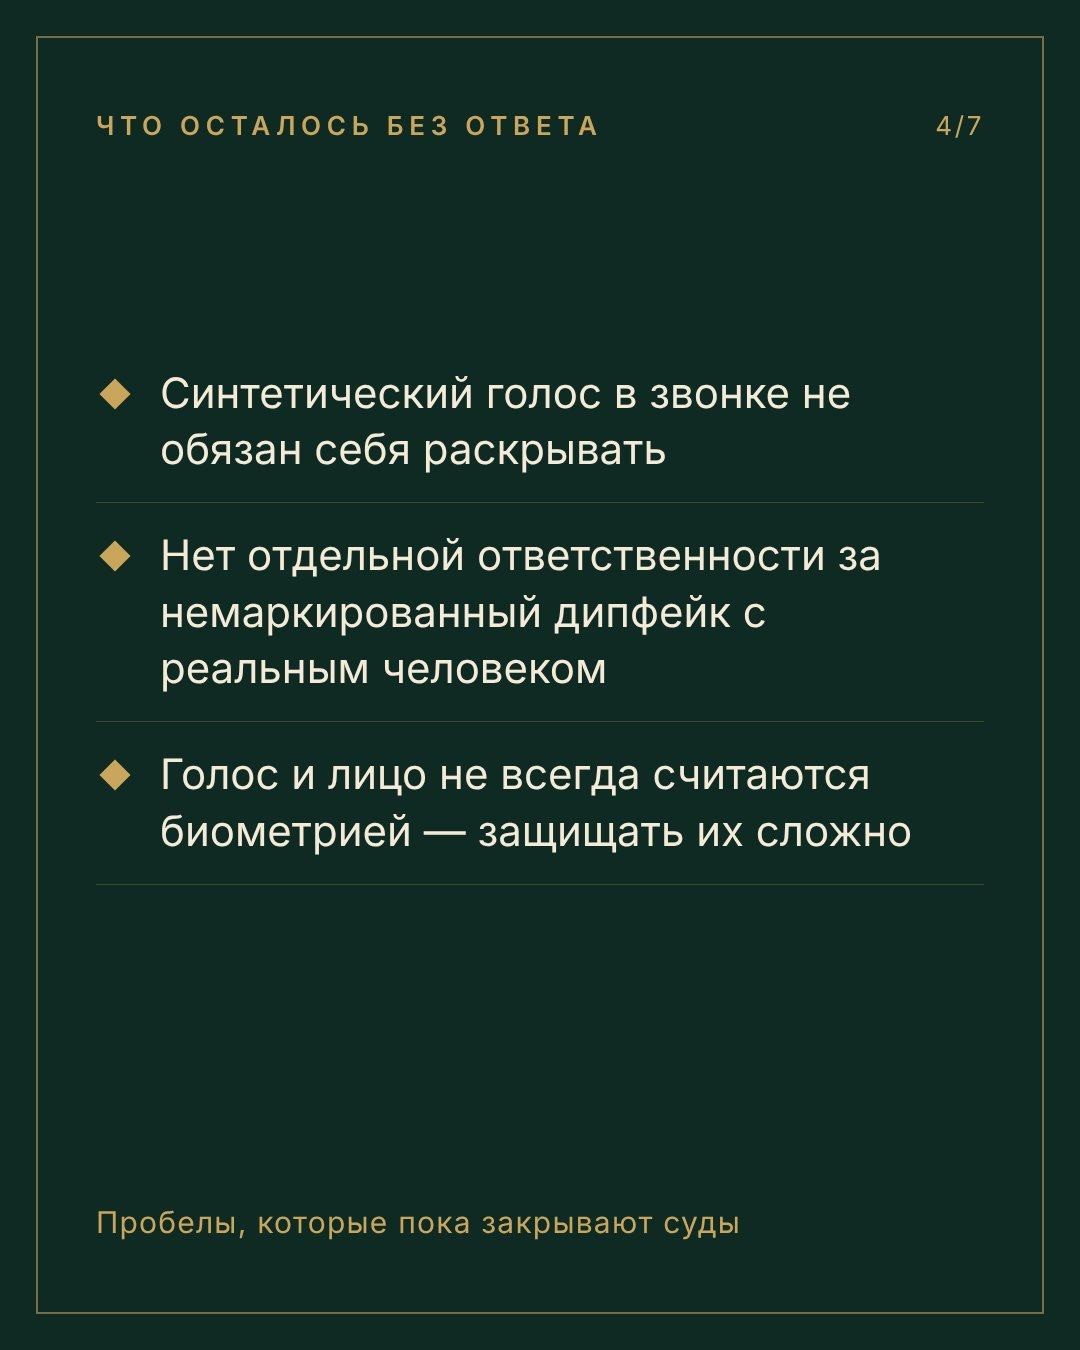
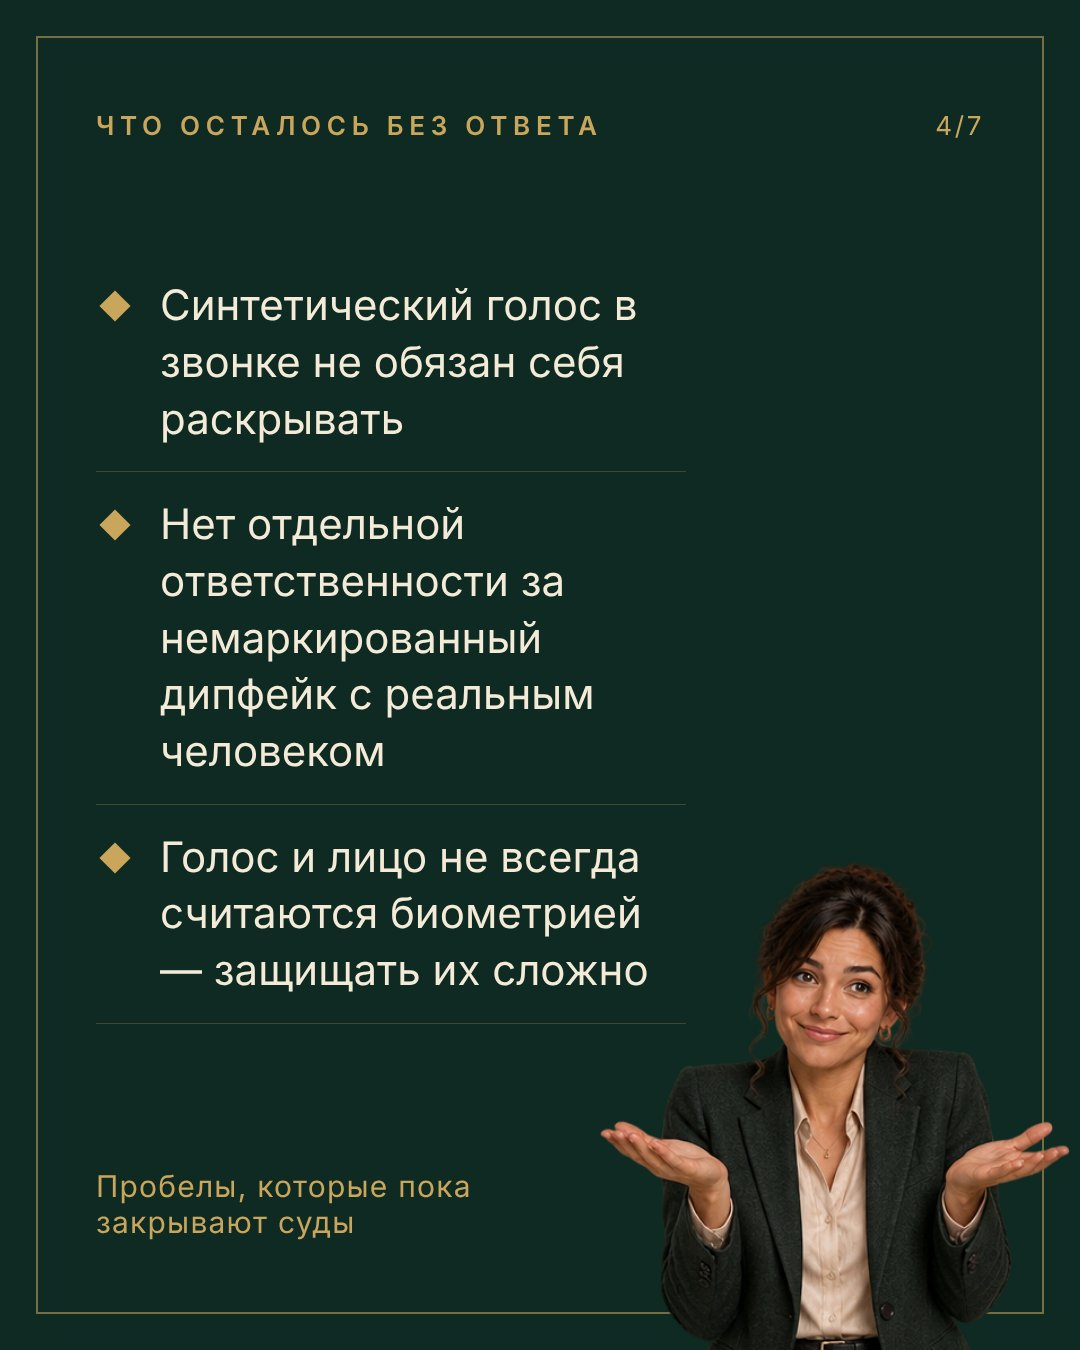
Набор эмоций маскота (прозрачный фон)
Claude-Session: https://claude.ai/code/session_01CAMY4VsFg6ipT98vCXXg6A

diff --git a/tools/render_carousel.py b/tools/render_carousel.py
@@ -12,10 +12,9 @@ spec.json: {"slides": [ {...}, ... ]}
   cta      : title, accent, button
   photo    : kicker, photo, title, paras[], foot, credit   (фото сверху, текст снизу)
 Доп. поля: cover.photo (фото на весь слайд с затемнением), credit (подпись автора фото),
-mascot (путь к png маскота — встаёт в правый нижний угол, текст сужается):
-  Лучше брать поясные версии *_half.png (крупнее): explain_half, point_half, wave_half.
-  media/mascot/explain.png — объясняет (открытая ладонь), point.png — «важно!» (палец вверх),
-  wave.png — привет/итог (машет рукой).
+mascot (путь к png маскота — встаёт в правый нижний угол, текст сужается). Эмоции в media/mascot/:
+  think (задумалась), surprised (удивилась), stop (предупреждает, «стоп»), ironic (ирония, руки скрещены),
+  thumbsup (одобряет), shrug (разводит руками), pointside (показывает влево на текст), phone (читает подозрительное в телефоне).
 Фото кладутся в media/photos/ через inbox/*.txt (см. .github/workflows/fetch-media.yml).
 Выход: slide_1.jpg ... slide_N.jpg (1080x1350) + slide_N.png
 """
@@ -57,7 +56,7 @@ ol li:before{counter-increment:n;content:counter(n);position:absolute;left:0;top
 .credit{position:absolute;right:56px;bottom:52px;font-size:20px;color:rgba(243,234,215,.55)}
 .pic{width:100%;height:560px;background-position:center 30%;border:2px solid rgba(201,166,92,.55);background-size:cover;margin-top:60px}
 .pic+h2{margin-top:44px}
-.mascot{position:absolute;right:20px;bottom:0;height:700px;z-index:3}.withm ul,.withm ol,.withm h2,.withm p,.withm .btn{max-width:590px}.withm .foot{max-width:560px}
+.mascot{position:absolute;right:10px;bottom:0;height:640px;max-width:470px;object-fit:contain;object-position:bottom right;z-index:3}.withm ul,.withm ol,.withm h2,.withm p,.withm .btn{max-width:590px}.withm .foot{max-width:420px}
 .btn{display:inline-block;margin-top:50px;padding:28px 46px;border:2px solid #d9b56a;color:#d9b56a;font-size:36px;font-weight:600}
 """
 
